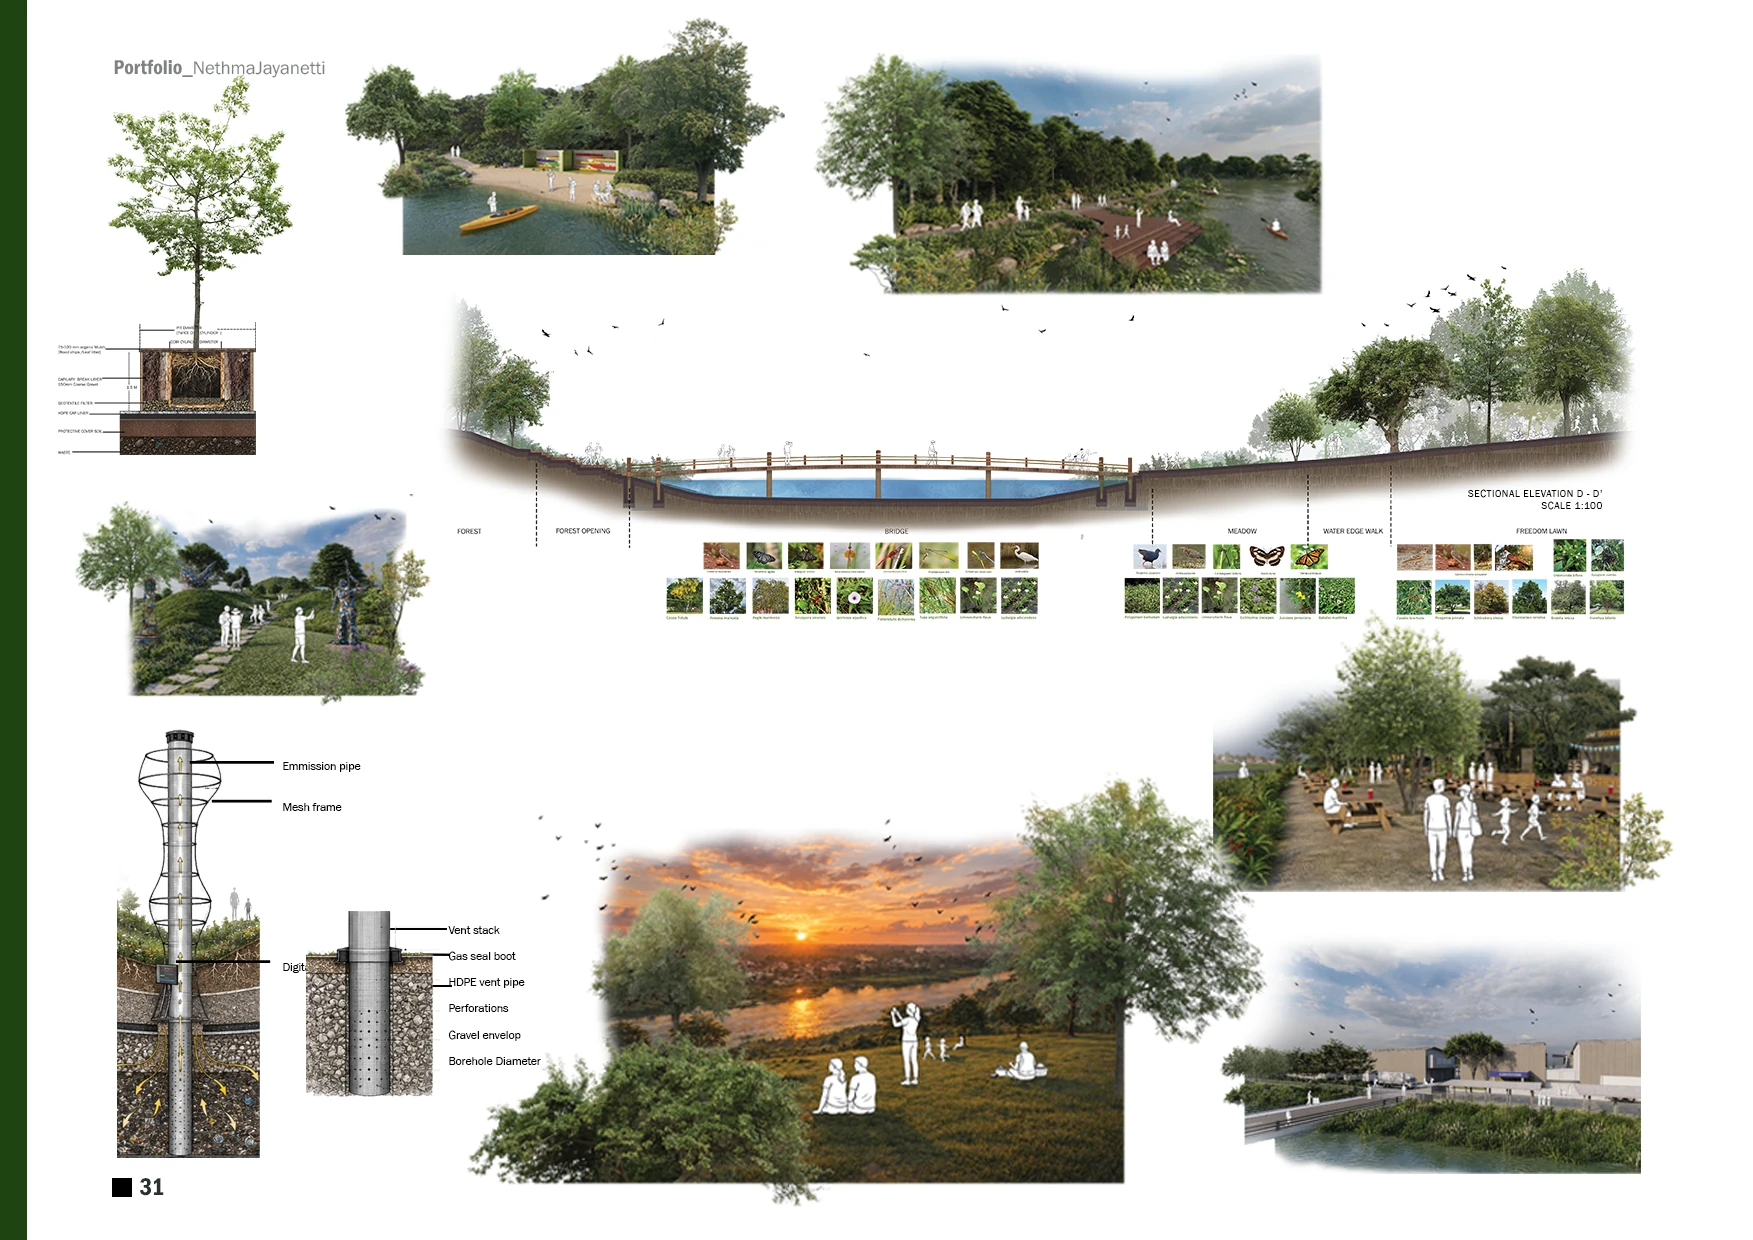
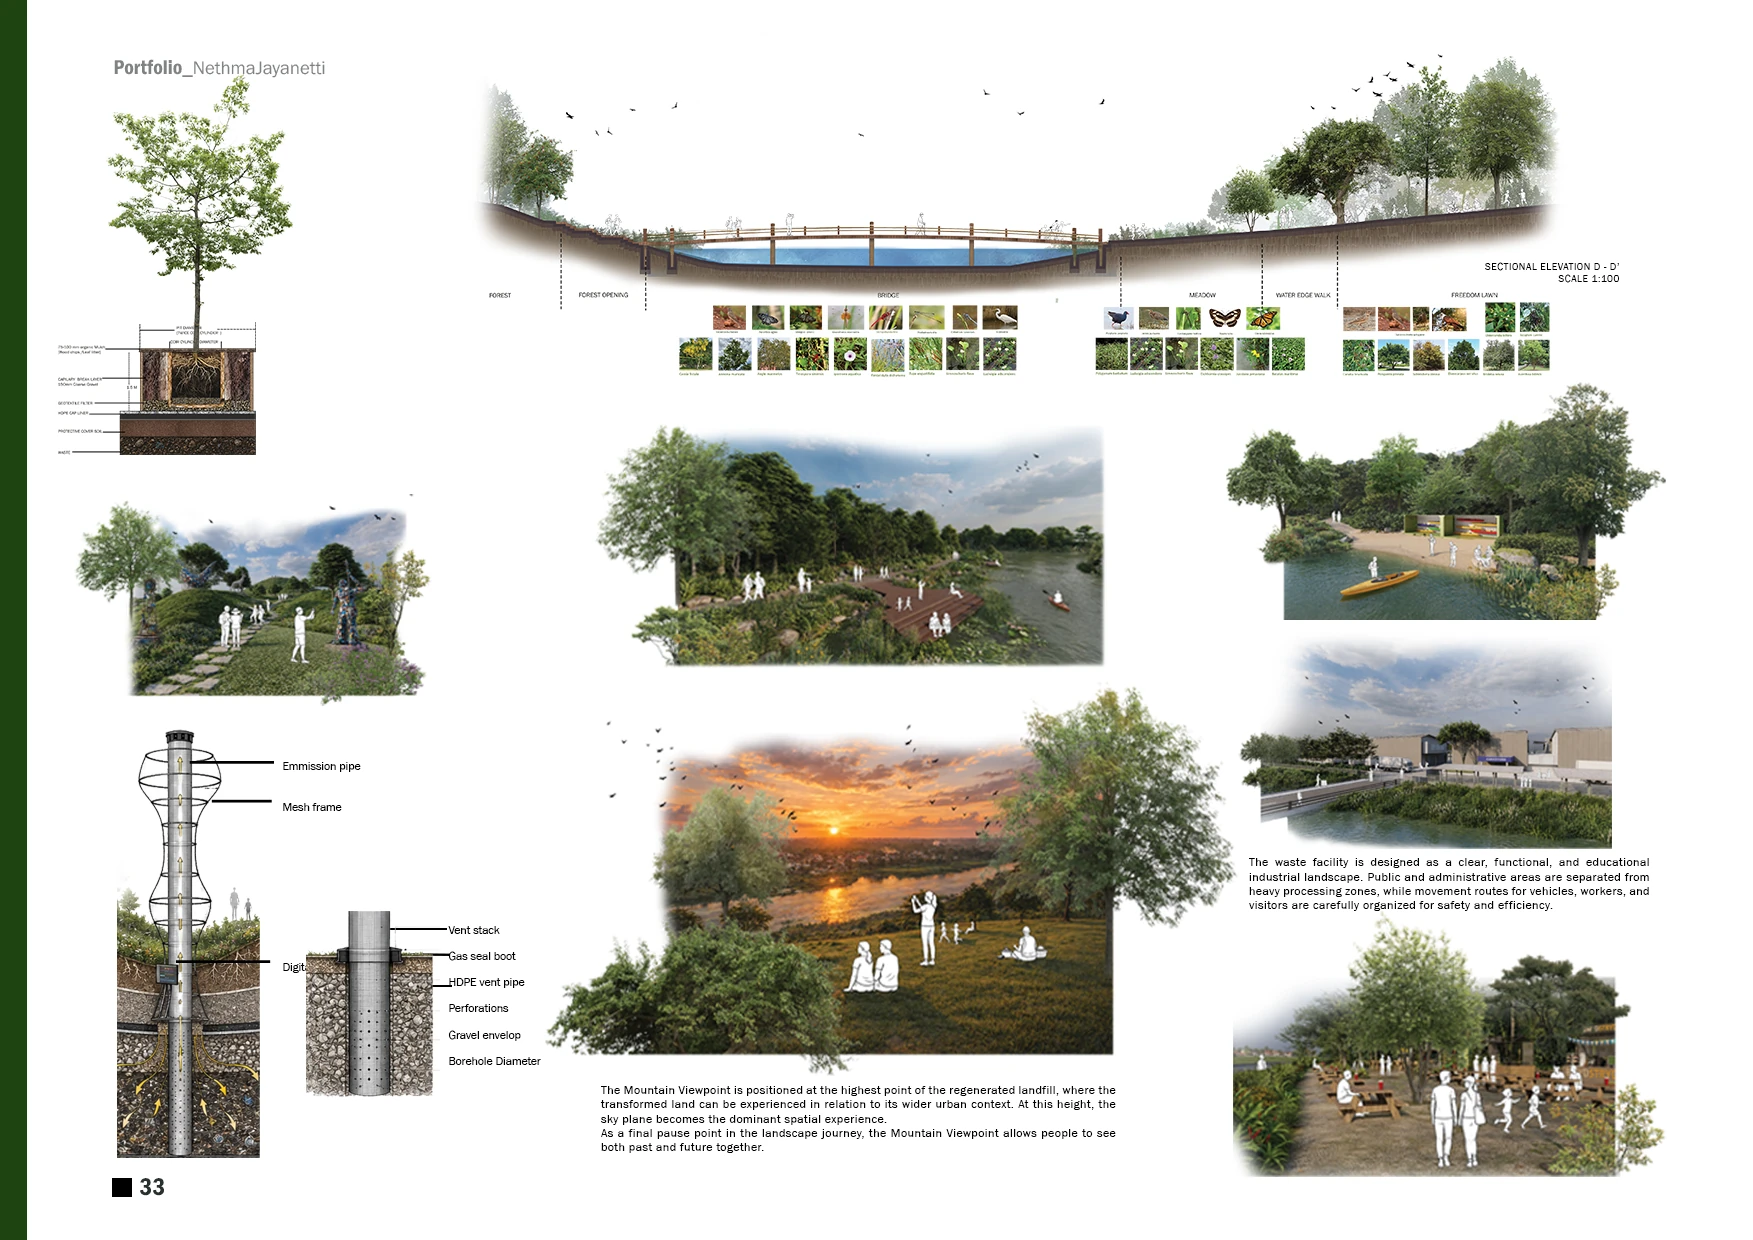
page 33

diff --git a/app.js b/app.js
@@ -1,7 +1,7 @@
 /* All assets use relative file paths so index.html also works with file://. */
 (() => {
   'use strict';
-  const pages = Array.from({ length: 39 }, (_, i) => `pages/page-${String(i + 1).padStart(2, '0')}.webp?v=20261019-p33`);
+  const pages = Array.from({ length: 39 }, (_, i) => `pages/page-${String(i + 1).padStart(2, '0')}.webp?v=20261019-p33-36`);
   const $ = id => document.getElementById(id);
   const select = $('page-select');
   const reader = $('reader');

diff --git a/index.html b/index.html
@@ -9,7 +9,7 @@
   <link rel="preload" as="image" href="pages/page-01.webp?v=faf8ce4b44b1" fetchpriority="high">
   <script src="page-flip.browser.js?v=3" defer></script>
   <script src="sounds/page-flip-data.js" defer></script>
-  <script src="app.js?v=12" defer></script>
+  <script src="app.js?v=13" defer></script>
 </head>
 <body>
   <main>
